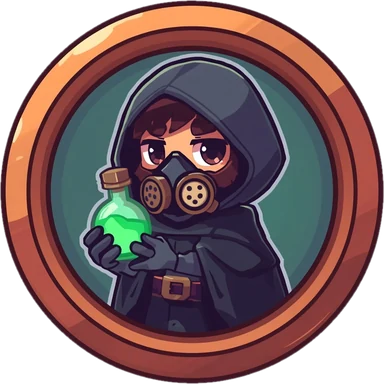
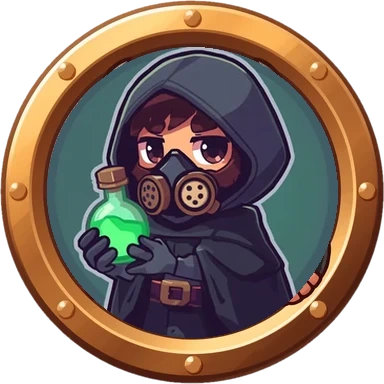
Mismo marco para cada rareza y cartas del mazo visibles en la colección

diff --git a/sw.js b/sw.js
@@ -6,10 +6,10 @@
 // archivo por su cuenta: si uno falla, los demás se quedan. El arte (EXTRA)
 // se baja después, de pocos en pocos y sin bloquear, y lo que se vaya
 // usando se guarda igualmente al pedirlo.
-var CACHE = 'reino-de-torres-v85';
+var CACHE = 'reino-de-torres-v86';
 var CORE = ['./', 'index.html', 'style.css', 'favicon.svg', 'manifest.json', 'js/data.js', 'js/version.js', 'js/art.js', 'js/meta.js', 'js/board.js', 'js/battle.js', 'js/music.js', 'js/ui.js',
   'assets/ui/header.webp', 'assets/ui/navbar.webp', 'assets/ui/titulo.webp', 'assets/ui/fondo.webp', 'assets/tablero.webp', 'assets/icons/moneda.webp', 'assets/icons/gema.webp', 'assets/icons/trofeo.webp', 'assets/icons/estrella.webp'];
-var EXTRA = ['assets/ui/boton.webp', 'assets/ui/boton-jugar.webp', 'assets/ui/banner-mazo.webp', 'assets/ui/panel-mazo.webp', 'assets/ui/hueco-cofre.webp', 'assets/ui/boton-duelo.webp', 'assets/ui/boton-coop.webp', 'assets/ui/banner-comandante.webp', 'assets/ui/letrero.webp', 'assets/enemies/blob.webp', 'assets/ui/boton-invocar.webp', 'assets/ui/marco-carta.webp', 'assets/ui/carta.webp', 'assets/ui/vida.webp', 'assets/ui/mana.webp', 'assets/ui/contador-mana.webp', 'assets/ui/comandante.webp', 'assets/ui/boton-invocar-2.webp', 'assets/ui/boton-invocar-gris.webp', 'assets/ui/marco.webp', 'assets/ui/marco-tienda.webp', 'assets/ui/filtro-rareza.webp', 'assets/ui/filtro-rareza-h.webp?v=2', 'assets/ui/modo-campana.webp', 'assets/ui/modo-duelo.webp', 'assets/ui/modo-coop.webp', 'assets/ui/modo-torneo.webp', 'assets/ui/modo-coop-limpio.webp', 'assets/ui/modo-roguelike.webp', 'assets/chests/destello.webp', 'assets/chests/moneda.webp', 'assets/chests/oro-monedas.webp', 'assets/chests/oro-saco.webp', 'assets/chests/oro-cofre.webp', 'assets/commanders/aria.webp?v=2', 'assets/commanders/aria-cuerpo.webp', 'assets/commanders/merlo.webp?v=2', 'assets/commanders/merlo-cuerpo.webp', 'assets/commanders/brann.webp?v=2', 'assets/commanders/brann-cuerpo.webp', 'assets/commanders/nyx.webp', 'assets/commanders/nyx-cuerpo.webp', 'assets/commanders/sol.webp', 'assets/commanders/sol-cuerpo.webp', 'assets/commanders/morgana.webp', 'assets/commanders/morgana-cuerpo.webp', 'assets/commanders/torvald.webp', 'assets/commanders/torvald-cuerpo.webp', 'assets/events/eclipse.webp', 'assets/events/lluvia.webp', 'assets/events/niebla.webp', 'assets/events/horda.webp', 'assets/events/calma.webp', 'assets/boards/lava2.webp', 'assets/boards/hielo.webp', 'assets/boards/roca.webp', 'assets/boards/veneno.webp', 'assets/ui/tarjeta-tienda.webp', 'assets/ui/misiones.webp', 'assets/fx/eco-resuena.webp', 'assets/fx/fusion-eco.webp', 'assets/fx/oria-interes.webp', 'assets/fx/garra-lobo.webp', 'assets/fx/garra-lobo-2.webp', 'assets/ui/tarjeta-comandante-2.webp', 'assets/ui/arbol-talentos.webp', 'assets/ui/arbol-comandante.webp', 'assets/fx/nyx-maldicion.webp', 'assets/fx/nyx-chispas.webp', 'assets/fx/sol-escudo.webp', 'assets/fx/morgana-ensamblaje.webp', 'assets/fx/torvald-forja.webp', 'assets/fx/torvald-carga.webp', 'assets/fx/ventisca.webp', 'assets/fx/marea.webp', 'assets/fx/meteoro.webp', 'assets/fx/crater.webp', 'assets/fx/boreas-ventisca.webp', 'assets/fx/midas-critico.webp', 'assets/fx/estado-helado.webp', 'assets/fx/estado-armadura.webp', 'assets/fx/estado-quemado.webp', 'assets/fx/estado-veneno.webp', 'assets/fx/estado-critico.webp', 'assets/fx/estado-aturdido.webp', 'assets/chests/oro-rebosante.webp', 'assets/tiles/altar.webp', 'assets/tiles/fuente.webp', 'assets/tiles/atalaya.webp', 'assets/fx/muerte-puf.webp', 'assets/fx/invocar.webp', 'assets/fx/fusion.webp', 'assets/fx/fusion-doblon.webp', 'assets/fx/mover.webp', 'assets/fx/ralentizado-1.webp', 'assets/fx/ralentizado-2.webp', 'assets/fx/ralentizado-3.webp', 'assets/fx/ralentizado-4.webp', 'assets/fx/ralentizado-5.webp', 'assets/fx/conector-fuego.webp', 'assets/fx/conector-hielo.webp', 'assets/fx/conector-naturaleza.webp', 'assets/fx/conector-arcano.webp', 'assets/fx/conector-metal.webp', 'assets/ui/cartel-entrada.webp', 'assets/ui/cartel-salida.webp'].concat(['lyra', 'brasa', 'nivea', 'doblon', 'rocco', 'volta', 'mirra', 'melodia', 'sombra', 'cronos', 'halcon', 'ulric', 'fenix', 'aurora', 'titan', 'boreas', 'midas', 'kaia', 'seren', 'oria', 'garra'].map(function (id) { return 'assets/cells/' + id + '.webp'; })).concat(['piedra-1'].map(function (k) { return 'assets/tiles/' + k + '.webp?v=2'; })).concat([['bosque', 6], ['lava', 6], ['hielo', 2], ['veneno', 6], ['roca', 12]].reduce(function (a, t) { for (var n = 1; n <= t[1]; n++) a.push('assets/tiles/' + t[0] + '-' + n + '.webp?v=2'); return a; }, [])).concat(['comun', 'rara', 'epica', 'mitica', 'legendaria'].map(function (k) { return 'assets/ui/tienda-' + k + '.webp'; })).concat(['lyra', 'brasa', 'nivea', 'doblon', 'rocco', 'volta', 'mirra', 'melodia', 'sombra', 'cronos', 'halcon', 'ulric', 'fenix', 'aurora', 'titan', 'boreas', 'midas', 'kaia', 'seren', 'eco', 'oria', 'garra'].map(function (id) { return 'assets/units/' + id + '.webp'; })).concat(['lyra', 'brasa', 'nivea', 'doblon', 'rocco', 'volta', 'mirra', 'melodia', 'sombra', 'cronos', 'halcon', 'ulric', 'fenix', 'aurora', 'titan', 'boreas', 'midas', 'kaia', 'seren'].reduce(function (a, id) { return a.concat(['assets/units/board/' + id + '-idle.webp?v=3', 'assets/units/board/' + id + '-attack.webp']); }, [])).concat(['eco', 'oria', 'garra'].map(function (id) { return 'assets/units/board/' + id + '-idle.webp?v=3'; })).concat(['madera', 'plata', 'oro', 'comandante', 'legendario'].reduce(function (a, k) { return a.concat(['assets/chests/' + k + '.webp', 'assets/chests/' + k + '-abierto.webp', 'assets/chests/portal-' + k + '.webp']); }, ['assets/chests/legendario-abriendo.webp']).concat(['comun', 'rara', 'epica', 'mitica', 'legendaria'].reduce(function (a, k) { return a.concat(['assets/ui/fondo-carta-' + k + '.webp', 'assets/ui/cinta-' + k + '.webp']); }, []))).concat(['fuego', 'hielo', 'veneno', 'canon', 'flecha', 'rayo', 'sombra', 'engranaje', 'bala', 'luz'].reduce(function (a, k) { return a.concat(['destello', 'bola', 'impacto'].map(function (p) { return 'assets/fx/' + k + '-' + p + '.webp'; })); }, [])).concat(['gota', 'corona', 'espadas', 'escudo', 'candado', 'pergamino', 'ticket', 'reloj', 'fuego', 'hielo', 'hoja', 'arcano', 'engranaje', 'explosion', 'veneno', 'rayo', 'critico', 'perfora', 'musica', 'diana', 'grafico', 'vecinas', 'chispas', 'calavera', 'ola', 'rival-facil', 'rival-normal', 'rival-dificil', 'derrota', 'sonido', 'silencio', 'rapido', 'reiniciar', 'casa', 'aviso', 'mano', 'dado', 'recolocar', 'mejorar'].map(function (k) { return 'assets/icons/' + k + '.webp'; })).concat(['ghost', 'brute', 'orco', 'rocoso', 'escarcha', 'gelido', 'coloso', 'coloso2', 'nigro', 'dragon'].map(function (id) { return 'assets/enemies/' + id + '.webp'; }));
+var EXTRA = ['assets/ui/boton.webp', 'assets/ui/boton-jugar.webp', 'assets/ui/banner-mazo.webp', 'assets/ui/panel-mazo.webp', 'assets/ui/hueco-cofre.webp', 'assets/ui/boton-duelo.webp', 'assets/ui/boton-coop.webp', 'assets/ui/banner-comandante.webp', 'assets/ui/letrero.webp', 'assets/enemies/blob.webp', 'assets/ui/boton-invocar.webp', 'assets/ui/marco-carta.webp', 'assets/ui/carta.webp', 'assets/ui/vida.webp', 'assets/ui/mana.webp', 'assets/ui/contador-mana.webp', 'assets/ui/comandante.webp', 'assets/ui/boton-invocar-2.webp', 'assets/ui/boton-invocar-gris.webp', 'assets/ui/marco.webp', 'assets/ui/marco-tienda.webp', 'assets/ui/filtro-rareza.webp', 'assets/ui/filtro-rareza-h.webp?v=2', 'assets/ui/modo-campana.webp', 'assets/ui/modo-duelo.webp', 'assets/ui/modo-coop.webp', 'assets/ui/modo-torneo.webp', 'assets/ui/modo-coop-limpio.webp', 'assets/ui/modo-roguelike.webp', 'assets/chests/destello.webp', 'assets/chests/moneda.webp', 'assets/chests/oro-monedas.webp', 'assets/chests/oro-saco.webp', 'assets/chests/oro-cofre.webp', 'assets/commanders/aria.webp?v=2', 'assets/commanders/aria-cuerpo.webp', 'assets/commanders/merlo.webp?v=2', 'assets/commanders/merlo-cuerpo.webp', 'assets/commanders/brann.webp?v=2', 'assets/commanders/brann-cuerpo.webp', 'assets/commanders/nyx.webp', 'assets/commanders/nyx-cuerpo.webp', 'assets/commanders/sol.webp', 'assets/commanders/sol-cuerpo.webp', 'assets/commanders/morgana.webp', 'assets/commanders/morgana-cuerpo.webp', 'assets/commanders/torvald.webp', 'assets/commanders/torvald-cuerpo.webp', 'assets/events/eclipse.webp', 'assets/events/lluvia.webp', 'assets/events/niebla.webp', 'assets/events/horda.webp', 'assets/events/calma.webp', 'assets/boards/lava2.webp', 'assets/boards/hielo.webp', 'assets/boards/roca.webp', 'assets/boards/veneno.webp', 'assets/ui/tarjeta-tienda.webp', 'assets/ui/misiones.webp', 'assets/fx/eco-resuena.webp', 'assets/fx/fusion-eco.webp', 'assets/fx/oria-interes.webp', 'assets/fx/garra-lobo.webp', 'assets/fx/garra-lobo-2.webp', 'assets/ui/tarjeta-comandante-2.webp', 'assets/ui/arbol-talentos.webp', 'assets/ui/arbol-comandante.webp', 'assets/fx/nyx-maldicion.webp', 'assets/fx/nyx-chispas.webp', 'assets/fx/sol-escudo.webp', 'assets/fx/morgana-ensamblaje.webp', 'assets/fx/torvald-forja.webp', 'assets/fx/torvald-carga.webp', 'assets/fx/ventisca.webp', 'assets/fx/marea.webp', 'assets/fx/meteoro.webp', 'assets/fx/crater.webp', 'assets/fx/boreas-ventisca.webp', 'assets/fx/midas-critico.webp', 'assets/fx/estado-helado.webp', 'assets/fx/estado-armadura.webp', 'assets/fx/estado-quemado.webp', 'assets/fx/estado-veneno.webp', 'assets/fx/estado-critico.webp', 'assets/fx/estado-aturdido.webp', 'assets/chests/oro-rebosante.webp', 'assets/tiles/altar.webp', 'assets/tiles/fuente.webp', 'assets/tiles/atalaya.webp', 'assets/fx/muerte-puf.webp', 'assets/fx/invocar.webp', 'assets/fx/fusion.webp', 'assets/fx/fusion-doblon.webp', 'assets/fx/mover.webp', 'assets/fx/ralentizado-1.webp', 'assets/fx/ralentizado-2.webp', 'assets/fx/ralentizado-3.webp', 'assets/fx/ralentizado-4.webp', 'assets/fx/ralentizado-5.webp', 'assets/fx/conector-fuego.webp', 'assets/fx/conector-hielo.webp', 'assets/fx/conector-naturaleza.webp', 'assets/fx/conector-arcano.webp', 'assets/fx/conector-metal.webp', 'assets/ui/cartel-entrada.webp', 'assets/ui/cartel-salida.webp'].concat(['lyra', 'brasa', 'nivea', 'doblon', 'rocco', 'volta', 'mirra', 'melodia', 'sombra', 'cronos', 'halcon', 'ulric', 'fenix', 'aurora', 'titan', 'boreas', 'midas', 'kaia', 'seren', 'oria', 'garra'].map(function (id) { return 'assets/cells/' + id + '.webp'; })).concat(['piedra-1'].map(function (k) { return 'assets/tiles/' + k + '.webp?v=2'; })).concat([['bosque', 6], ['lava', 6], ['hielo', 2], ['veneno', 6], ['roca', 12]].reduce(function (a, t) { for (var n = 1; n <= t[1]; n++) a.push('assets/tiles/' + t[0] + '-' + n + '.webp?v=2'); return a; }, [])).concat(['comun', 'rara', 'epica', 'mitica', 'legendaria'].map(function (k) { return 'assets/ui/tienda-' + k + '.webp'; })).concat(['lyra', 'brasa', 'nivea', 'doblon', 'rocco', 'volta', 'mirra', 'melodia', 'sombra', 'cronos', 'halcon', 'ulric', 'fenix', 'aurora', 'titan', 'boreas', 'midas', 'kaia', 'seren', 'eco', 'oria', 'garra'].map(function (id) { return 'assets/units/' + id + '.webp?v=2'; })).concat(['lyra', 'brasa', 'nivea', 'doblon', 'rocco', 'volta', 'mirra', 'melodia', 'sombra', 'cronos', 'halcon', 'ulric', 'fenix', 'aurora', 'titan', 'boreas', 'midas', 'kaia', 'seren'].reduce(function (a, id) { return a.concat(['assets/units/board/' + id + '-idle.webp?v=3', 'assets/units/board/' + id + '-attack.webp']); }, [])).concat(['eco', 'oria', 'garra'].map(function (id) { return 'assets/units/board/' + id + '-idle.webp?v=3'; })).concat(['madera', 'plata', 'oro', 'comandante', 'legendario'].reduce(function (a, k) { return a.concat(['assets/chests/' + k + '.webp', 'assets/chests/' + k + '-abierto.webp', 'assets/chests/portal-' + k + '.webp']); }, ['assets/chests/legendario-abriendo.webp']).concat(['comun', 'rara', 'epica', 'mitica', 'legendaria'].reduce(function (a, k) { return a.concat(['assets/ui/fondo-carta-' + k + '.webp', 'assets/ui/cinta-' + k + '.webp']); }, []))).concat(['fuego', 'hielo', 'veneno', 'canon', 'flecha', 'rayo', 'sombra', 'engranaje', 'bala', 'luz'].reduce(function (a, k) { return a.concat(['destello', 'bola', 'impacto'].map(function (p) { return 'assets/fx/' + k + '-' + p + '.webp'; })); }, [])).concat(['gota', 'corona', 'espadas', 'escudo', 'candado', 'pergamino', 'ticket', 'reloj', 'fuego', 'hielo', 'hoja', 'arcano', 'engranaje', 'explosion', 'veneno', 'rayo', 'critico', 'perfora', 'musica', 'diana', 'grafico', 'vecinas', 'chispas', 'calavera', 'ola', 'rival-facil', 'rival-normal', 'rival-dificil', 'derrota', 'sonido', 'silencio', 'rapido', 'reiniciar', 'casa', 'aviso', 'mano', 'dado', 'recolocar', 'mejorar'].map(function (k) { return 'assets/icons/' + k + '.webp'; })).concat(['ghost', 'brute', 'orco', 'rocoso', 'escarcha', 'gelido', 'coloso', 'coloso2', 'nigro', 'dragon'].map(function (id) { return 'assets/enemies/' + id + '.webp'; }));
 function cacheEach(c, list) { return Promise.all(list.map(function (u) { return c.add(u).catch(function () {}); })); }
 // el arte, de 6 en 6 (lo que ya esté guardado no se vuelve a bajar)
 function warmExtra() {

diff --git a/js/ui.js b/js/ui.js
@@ -911,12 +911,13 @@ function elementFilters() {
   }).join('') + '</div>';
 }
 function collectionGrid() {
-  var rest = function (ids) { return ids.filter(function (id) { return meta.deck.indexOf(id) === -1; }); };
+  // las del mazo también salen en la colección (con su marca de «En el mazo»)
+  var rest = function (ids) { return ids; };
   // las que tienes primero; las no encontradas, debajo (sin cambiar el orden dentro de cada grupo)
   var ownedFirst = function (ids) { ids = rest(ids); return ids.filter(isUnlocked).concat(ids.filter(function (id) { return !isUnlocked(id); })); };
   // de común a legendaria, con la mítica antes que la legendaria (orden de RARITY)
   var byRar = function (a, b) { return RARITY_ORDER.indexOf(UNITS[a].rarity) - RARITY_ORDER.indexOf(UNITS[b].rarity) || UNIT_ORDER.indexOf(a) - UNIT_ORDER.indexOf(b); };
-  var grid = function (ids) { return '<div class="tc-grid">' + ids.map(function (id) { return cardHtml(id); }).join('') + '</div>'; };
+  var grid = function (ids) { return '<div class="tc-grid">' + ids.map(function (id) { return cardHtml(id, true); }).join('') + '</div>'; };
   if (collSort !== 'tipo') {
     var ids = ownedFirst(UNIT_ORDER.filter(function (id) { return collFilter === 'all' || UNITS[id].rarity === collFilter; }).sort(byRar));
     return ids.length ? grid(ids) : '<div class="coll-empty">' + ico('icons/estrella') + '</div>';
@@ -931,13 +932,14 @@ function collectionGrid() {
 /* Carta de tropa: el fondo ilustrado de su rareza (assets/ui/fondo-carta-*),
    su retrato, el nivel en un escudo, el elemento, la barra de cartas y el
    nombre en su placa. Las que aún no tienes, en sombra y con candado. */
-function cardHtml(id) {
+function cardHtml(id, enRejilla) {
   var u = UNITS[id], c = meta.cards[id];
   var head = '<button class="tc r-' + u.rarity + (c ? '' : ' locked') + (c && canUpgradeCard(id) ? ' ready' : '') + '" data-card="' + id + '" style="--rc:' + RARITY[u.rarity].color + '">' +
     '<span class="tc-art"><img src="' + unitIcon(id, 0, 128) + '" alt=""></span>' +
     '<span class="tc-el">' + ELEMENTS[u.element].icon + '</span>';
   if (!c) return head + '<span class="tc-lv lock">' + ico('icons/candado') + '</span><b class="tc-name">' + esc(u.name) + '</b></button>';
   var need = cardsNeeded(c.lv), max = c.lv >= CARD_MAX, pct = max ? 100 : Math.min(100, c.n / need * 100);
+  if (enRejilla && meta.deck.indexOf(id) !== -1) head += '<span class="tc-mazo">En el mazo</span>';
   return head + '<span class="tc-lv">' + c.lv + '</span>' +
     '<span class="tc-bar' + (pct >= 100 ? ' full' : '') + '"><i style="width:' + pct + '%"></i><em>' + (max ? 'MÁX' : c.n + '/' + need) + '</em></span>' +
     '<b class="tc-name">' + esc(u.name) + '</b></button>';

diff --git a/js/art.js b/js/art.js
@@ -65,7 +65,7 @@ Object.keys(IMG_LIST).forEach(function (dir) {
   IMG_LIST[dir].forEach(function (id) {
     var im = new Image();
     im.onload = function () { im.ready = true; imgReadyCount++; _unitIconCache = {}; _enemyIconCache = {}; _tintCache = {}; if (window.onArtReady) window.onArtReady(); };
-    im.src = 'assets/' + dir + '/' + id + '.webp' + (dir === 'boards' ? '?v=4' : dir === 'tiles' || dir === 'commanders' ? '?v=2' : '');
+    im.src = 'assets/' + dir + '/' + id + '.webp' + (dir === 'boards' ? '?v=4' : dir === 'tiles' || dir === 'commanders' || dir === 'units' ? '?v=2' : '');
     IMG[dir + '/' + id] = im;
   });
 });
@@ -1014,7 +1014,8 @@ var _unitIconCache = {};
 function unitIcon(id, rank, size) {
   size = size || 128;
   // sin rango: la ficha ilustrada; si la tropa aún no tiene, su retrato dibujado
-  if (!rank && !UNITS[id].noArt) return 'assets/units/' + id + '.webp';
+  // ?v=2: marcos iguales por rareza (raras como Rocco, míticas en rojo, legendarias como Ulric)
+  if (!rank && !UNITS[id].noArt) return 'assets/units/' + id + '.webp?v=2';
   if (!art('units/' + id) && !UNITS[id].noArt) { var tmp = drawIconCanvas(id, rank, size); return tmp; }
   var k = id + '_' + (rank || 0) + '_' + size;
   if (_unitIconCache[k]) return _unitIconCache[k];

diff --git a/index.html b/index.html
@@ -15,7 +15,7 @@
 <link rel="preconnect" href="https://fonts.googleapis.com">
 <link rel="preconnect" href="https://fonts.gstatic.com" crossorigin>
 <link href="https://fonts.googleapis.com/css2?family=Fredoka:wght@500;600;700&family=Lilita+One&family=Nunito:wght@700;800;900&family=Titan+One&display=swap" rel="stylesheet">
-<link rel="stylesheet" href="style.css?v=66">
+<link rel="stylesheet" href="style.css?v=67">
 </head>
 <body>
   <div id="menu" class="menu"></div>
@@ -58,12 +58,12 @@
   <div id="toast" class="toast"></div>
 
   <script src="js/data.js?v=48"></script>
-  <script src="js/version.js?v=47"></script>
-  <script src="js/art.js?v=42"></script>
+  <script src="js/version.js?v=48"></script>
+  <script src="js/art.js?v=43"></script>
   <script src="js/meta.js?v=32"></script>
   <script src="js/board.js?v=47"></script>
   <script src="js/battle.js?v=57"></script>
   <script src="js/music.js?v=1"></script>
-  <script src="js/ui.js?v=72"></script>
+  <script src="js/ui.js?v=73"></script>
 </body>
 </html>

diff --git a/style.css b/style.css
@@ -2361,3 +2361,5 @@ x-ico.off { filter: grayscale(1) brightness(0.45); opacity: 0.75; }
 .wh-cost x-ico { width: 1.3em; height: 1.3em; margin: 0 2px 0 0; vertical-align: -0.3em; }
 .wh-prize { display: block; width: 90px; height: 90px; object-fit: contain; margin: 0 auto 6px; animation: popIn 0.4s cubic-bezier(0.3, 1.6, 0.5, 1); }
 .navbar button.has-dot::after { content: ''; position: absolute; top: 6px; right: 22%; width: 12px; height: 12px; border-radius: 50%; background: var(--red); border: 2px solid var(--ink); }
+/* ---------- 1.21.2: cartas del mazo en la colección ---------- */
+.tc-mazo { position: absolute; left: 50%; top: 44%; transform: translateX(-50%); z-index: 2; padding: 1px 7px; border-radius: 999px; white-space: nowrap; font: 400 0.62rem 'Lilita One', sans-serif; color: #fff; background: rgba(47,174,58,0.92); border: 1.5px solid #fff1a8; box-shadow: 0 2px 0 rgba(0,0,0,0.4); }

diff --git a/js/version.js b/js/version.js
@@ -7,8 +7,16 @@
    La ventana sale sola al entrar con una versión nueva (meta.lastSeenVersion)
    y también desde Opciones.
    ========================================================= */
-var APP_VERSION = '1.21.1';
+var APP_VERSION = '1.21.2';
 var APP_PATCH_NOTES = [
+  {
+    version: '1.21.2',
+    summary: 'Marcos por rareza y mazo visible en la colección',
+    items: [
+      'Todas las cartas de una rareza llevan el mismo marco: las raras como Rocco, las épicas como Sombra, las míticas en rojo y las legendarias como Ulric.',
+      'Las cartas de tu mazo también salen en la colección, con la marca En el mazo, ordenes como ordenes.'
+    ]
+  },
   {
     version: '1.21.1',
     summary: 'Ruleta con tirada gratis en la tienda',
